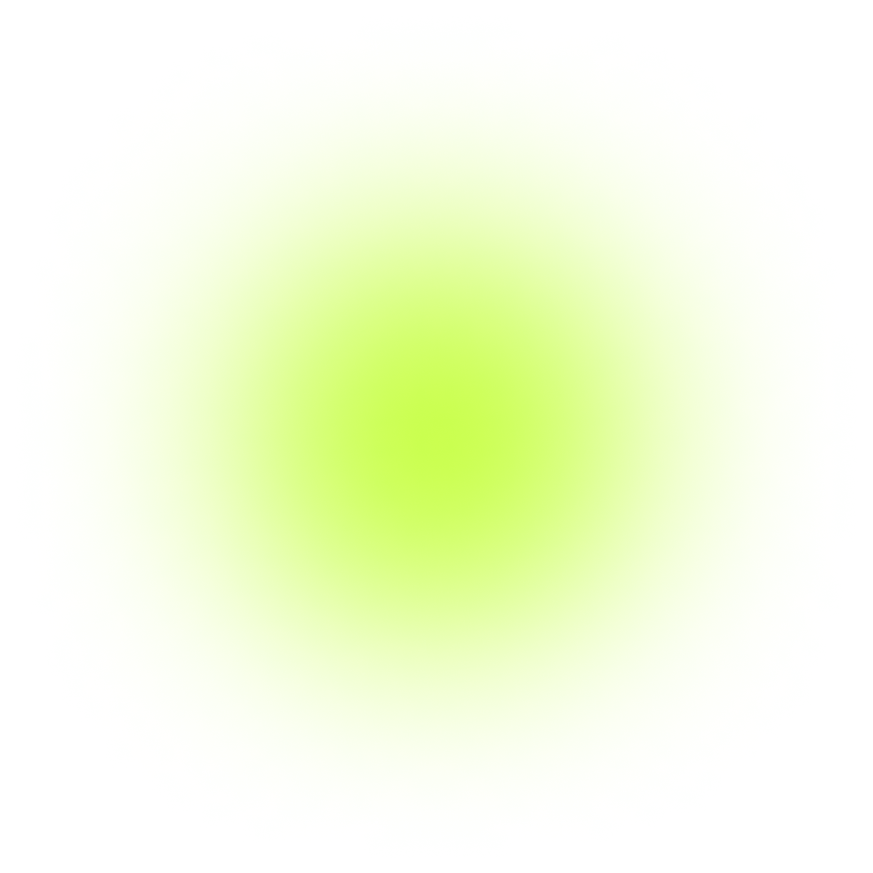
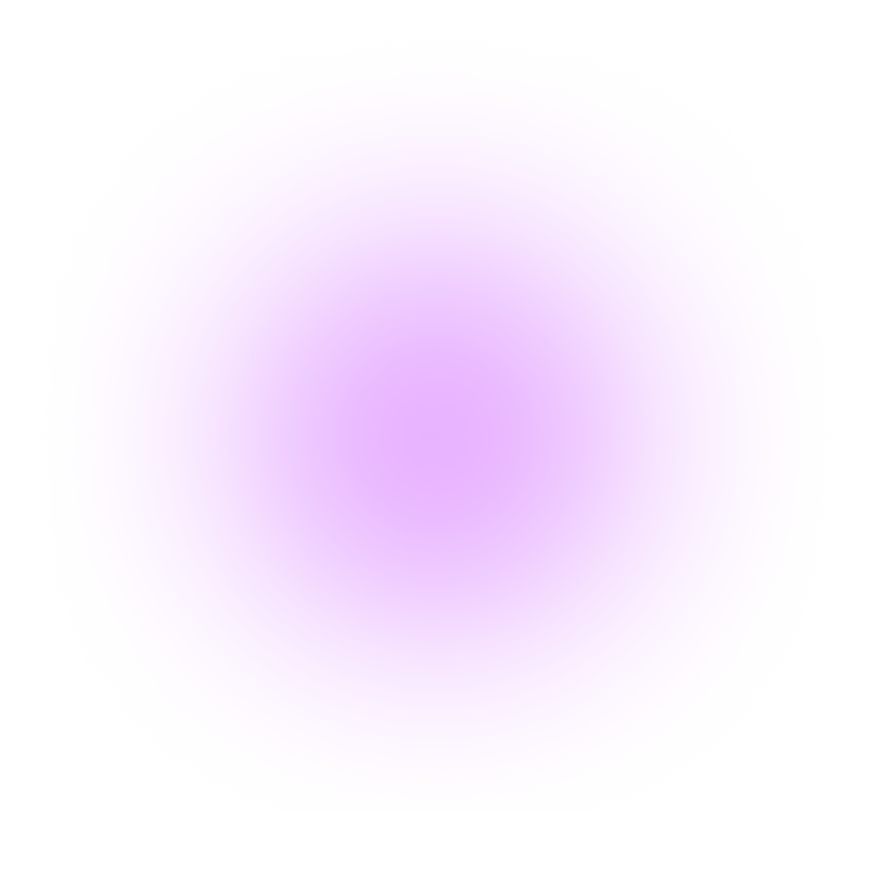
new update

diff --git a/src/Components/what-i-do/What-I-Do.jsx b/src/Components/what-i-do/What-I-Do.jsx
@@ -73,22 +73,22 @@ export default function WhatIDo({ Progress }) {
 
           <div className="ui-enhancement-main"
             style={{
-              background: catagId === 1 && 'linear-gradient(0deg, #B2FF00 0%, #B2FF00 100%)'
+              background: catagId === 1 && 'linear-gradient(0deg, #DD90FF 0%, #DD90FF 100%)'
             }}
           />
           <div className="creative-problem-main"
             style={{
-              background: catagId === 2 && 'linear-gradient(0deg, #B2FF00 0%, #B2FF00 100%)'
+              background: catagId === 2 && 'linear-gradient(0deg, #DD90FF 0%, #DD90FF 100%)'
             }}
           />
           <div className="deadline-commitment-main"
             style={{
-              background: catagId === 4 && 'linear-gradient(0deg, #B2FF00 0%, #B2FF00 100%)'
+              background: catagId === 4 && 'linear-gradient(0deg, #DD90FF 0%, #DD90FF 100%)'
             }}
           />
           <div className="growth-focused-main"
             style={{
-              background: catagId === 3 && 'linear-gradient(0deg, #B2FF00 0%, #B2FF00 100%)'
+              background: catagId === 3 && 'linear-gradient(0deg, #DD90FF 0%, #DD90FF 100%)'
             }}
           />
 
@@ -138,31 +138,31 @@ export default function WhatIDo({ Progress }) {
 
           <div className="ui-enhancement-main ui-enhancement-copy"
             style={{
-              borderLeft: catagId === 1 && '1px solid #B2FF00',
-              borderRight: catagId === 1 && '1px solid #B2FF00',
+              borderLeft: catagId === 1 && '1px solid #DD90FF',
+              borderRight: catagId === 1 && '1px solid #DD90FF',
               opacity: sValue > 0.65 && 1
             }}
           />
           <div className="creative-problem-main creative-problem-copy"
             style={{
-              borderLeft: catagId === 2 && '1px solid #B2FF00',
-              borderRight: catagId === 2 && '1px solid #B2FF00',
+              borderLeft: catagId === 2 && '1px solid #DD90FF',
+              borderRight: catagId === 2 && '1px solid #DD90FF',
               opacity: sValue > 0.65 && 1
 
             }}
           />
           <div className="growth-focused-main growth-focused-copy"
             style={{
-              borderLeft: catagId === 3 && '1px solid #B2FF00',
-              borderRight: catagId === 3 && '1px solid #B2FF00',
+              borderLeft: catagId === 3 && '1px solid #DD90FF',
+              borderRight: catagId === 3 && '1px solid #DD90FF',
               opacity: sValue > 0.65 && 1
 
             }}
           />
           <div className="deadline-commitment-main deadline-commitment-copy"
             style={{
-              borderLeft: catagId === 4 && '1px solid #B2FF00',
-              borderRight: catagId === 4 && '1px solid #B2FF00',
+              borderLeft: catagId === 4 && '1px solid #DD90FF',
+              borderRight: catagId === 4 && '1px solid #DD90FF',
               opacity: sValue > 0.65 && 1
 
             }}

diff --git a/src/Components/ui-projects/UIProjects.jsx b/src/Components/ui-projects/UIProjects.jsx
@@ -10,6 +10,7 @@ import MaskBG1 from '../../assets/personal-profile-fr.png';
 import MaskBG2 from '../../assets/personal-project-fr.png';
 import MaskBG3 from '../../assets/movie-deck-fr.png';
 import homeScreenBg from '../../assets/Home-screen-bg.png';
+import movieIcon from '../../assets/movie-icon.png';
 
 // videos
 import personalProfile from '../../assets/personal-profile-video.mp4';
@@ -111,7 +112,8 @@ export default function UIProjects({ Progress }) {
         <div className="ui-projects-main-container"
             style={{
                 transform: sValue >= 0 && sValue < 1 ? 'translateY(0%)' :
-                    sValue >= 1 && "translateY(-100%)"
+                    sValue >= 1 && "translateY(-100%)",
+                // opacity: sValue >= 1 && '0'
 
             }}
         >
@@ -220,8 +222,32 @@ export default function UIProjects({ Progress }) {
                     opacity: sValue >= 0.2 && sValue < 0.9 && 1
                 }}
             >
-                <p>3D Logo</p>
-                <span>Design</span>
+                {
+                    sValue >= 0.2 && sValue < 0.4 ?
+
+                        <>
+                            <p className='txt-typ1'>3D Logo</p>
+                            <span className='spn-typ1'>Design</span>
+
+                        </> : sValue >= 0.4 && sValue < 0.6 ?
+
+                            <>
+                                <p className='txt-typ2'>Personalized</p>
+                                <span className='spn-typ2'>Portfolio Design</span>
+
+                            </> : sValue >= 0.6 && sValue < 0.8 ?
+
+                                <>
+                                    <p className='txt-typ3'>Movie <span className="span-img" style={{ backgroundImage: `url(${movieIcon})` }} /></p>
+                                    <span className='spn-typ3'>Pitch Deck Design</span>
+
+                                </> : sValue >= 0.8 && sValue < 0.9 &&
+
+                                <>
+                                    <p className='txt-typ4'>Alone</p>
+                                    <span className='spn-typ4'>ROBOT</span>
+                                </>
+                }
             </div>
 
             <div className="dark-layer"

diff --git a/src/Components/ui-projects/ui-projects.scss b/src/Components/ui-projects/ui-projects.scss
@@ -99,7 +99,7 @@
                 width: 120%;
                 height: 150%;
                 object-fit: contain;
-                
+
             }
 
 
@@ -119,7 +119,7 @@
     .heading {
         position: absolute;
         color: #fff;
-        top: 14%;
+        top: 13%;
         line-height: 0.9;
         letter-spacing: -0.2em;
         text-shadow: 2px 5px 4px #000000;
@@ -127,18 +127,65 @@
         transition: 0.8s ease-in-out;
         z-index: 2;
 
-        p {
+        .txt-typ1 {
             color: #DFFFBE;
             font-weight: 600;
-            font-size: 3.5vw;
+            font-size: 3.4vw;
 
         }
 
-        span {
+        .spn-typ1 {
             font-weight: 300;
-            font-size: 4.1vw;
+            font-size: 4vw;
 
         }
+
+        .txt-typ2 {
+            color: #FF1900;
+            font-weight: 600;
+            font-size: 3.5vw;
+        }
+
+        .spn-typ2 {
+            font-weight: 300;
+            font-size: 3.08vw;
+        }
+
+        .txt-typ3 {
+            color: #fff;
+            font-weight: 600;
+            font-size: 3.5vw;
+            display: flex;
+            justify-content: flex-start;
+            align-items: center;
+            gap: 0.4em;
+
+            .span-img {
+                width: 3.5vw;
+                height: 3.5vw;
+                background-repeat: no-repeat;
+                background-size: contain;
+                margin-top: -0.25em;
+            }
+        }
+
+        .spn-typ3 {
+            font-weight: 300;
+            font-size: 2.2vw;
+        }
+
+        .txt-typ4 {
+            color: #fff;
+            font-weight: 200;
+            font-size: 3.8vw;
+        }
+        
+        .spn-typ4 {
+            color: #8222FF;
+            font-weight: 600;
+            font-size: 3.08vw;
+        }
+
     }
 
     .dark-layer {

diff --git a/src/Components/jump-into-journey/Jump-Into-Journey.jsx b/src/Components/jump-into-journey/Jump-Into-Journey.jsx
@@ -19,7 +19,8 @@ export default function JumpIntoJourney({ Progress }) {
         <div className="jump-into-journey-main-container"
             style={{
                 transform: sValue >= 0.8 && sValue < 2 ? `translateX(0)` :
-                    sValue > 2 && `translateY(-100%)`
+                    sValue > 2 && `translateY(-100%)`,
+                opacity: sValue > 2 && '0'
             }}
         >
 
@@ -40,12 +41,12 @@ export default function JumpIntoJourney({ Progress }) {
                             maskImage: `url(${MaskText})`
                         }}
                     >
-                        <img src={MaskBGImg} alt="" className="mask-bg" loading='lazy'/>
+                        <img src={MaskBGImg} alt="" className="mask-bg" loading='lazy' />
                     </div>
                 </div>
                 <div className="fr-2">
                     <div className="circle-div">
-                        <img src={CircleVector} alt="" className="vector-img" loading='lazy'/>
+                        <img src={CircleVector} alt="" className="vector-img" loading='lazy' />
                         <div className="inner-circle" />
                     </div>
                     <p>where</p>

diff --git a/src/Components/jump-into-journey/Jump-Into-Journey.scss b/src/Components/jump-into-journey/Jump-Into-Journey.scss
@@ -35,7 +35,7 @@
             flex-direction: column;
             justify-content: center;
             align-items: flex-start;
-            color: #B2FF00;
+            color: #DD90FF;
 
             .top-fr {
                 position: relative;
@@ -67,7 +67,7 @@
                 }
 
                 .jump-text {
-                    color: #B2FF00;
+                    color: #DD90FF;
                     // font-size: 6.5rem;
                     font-size: 6.8vw;
                     font-weight: 600;

diff --git a/src/Components/contact-us/contact-us.scss b/src/Components/contact-us/contact-us.scss
@@ -35,7 +35,7 @@
         display: flex;
         justify-content: center;
         align-items: center;
-        background-color: #e1ff00;
+        background-color: #DD90FF;
         border-radius: 50%;
         transition: 1.6s ease-in-out;
         transform: translate(-60vw, 80vw);

diff --git a/src/Components/what-i-do/What-I-Do.scss b/src/Components/what-i-do/What-I-Do.scss
@@ -110,7 +110,7 @@
                 align-items: center;
 
                 &:hover {
-                    background: linear-gradient(0deg, #B2FF00 0%, #B2FF00 100%);
+                    background: linear-gradient(0deg, #DD90FF 0%, #DD90FF 100%);
 
                 }
             }

diff --git a/src/Components/design-excellence/design-excellence.scss b/src/Components/design-excellence/design-excellence.scss
@@ -20,7 +20,7 @@
         position: absolute;
         width: 100vw;
         aspect-ratio: 2;
-        background-color: #e1ff00;
+        background-color: #DD90FF;
         border-radius: 50%;
         filter: blur(200px);
         z-index: 1;

diff --git a/src/Components/typography-comp/typography.scss b/src/Components/typography-comp/typography.scss
@@ -97,7 +97,7 @@
             }
 
             .tc-span {
-                color: #B2FF00;
+                color: #DD90FF;
                 opacity: 0;
                 transition: 0.1s ease-in-out;
 
